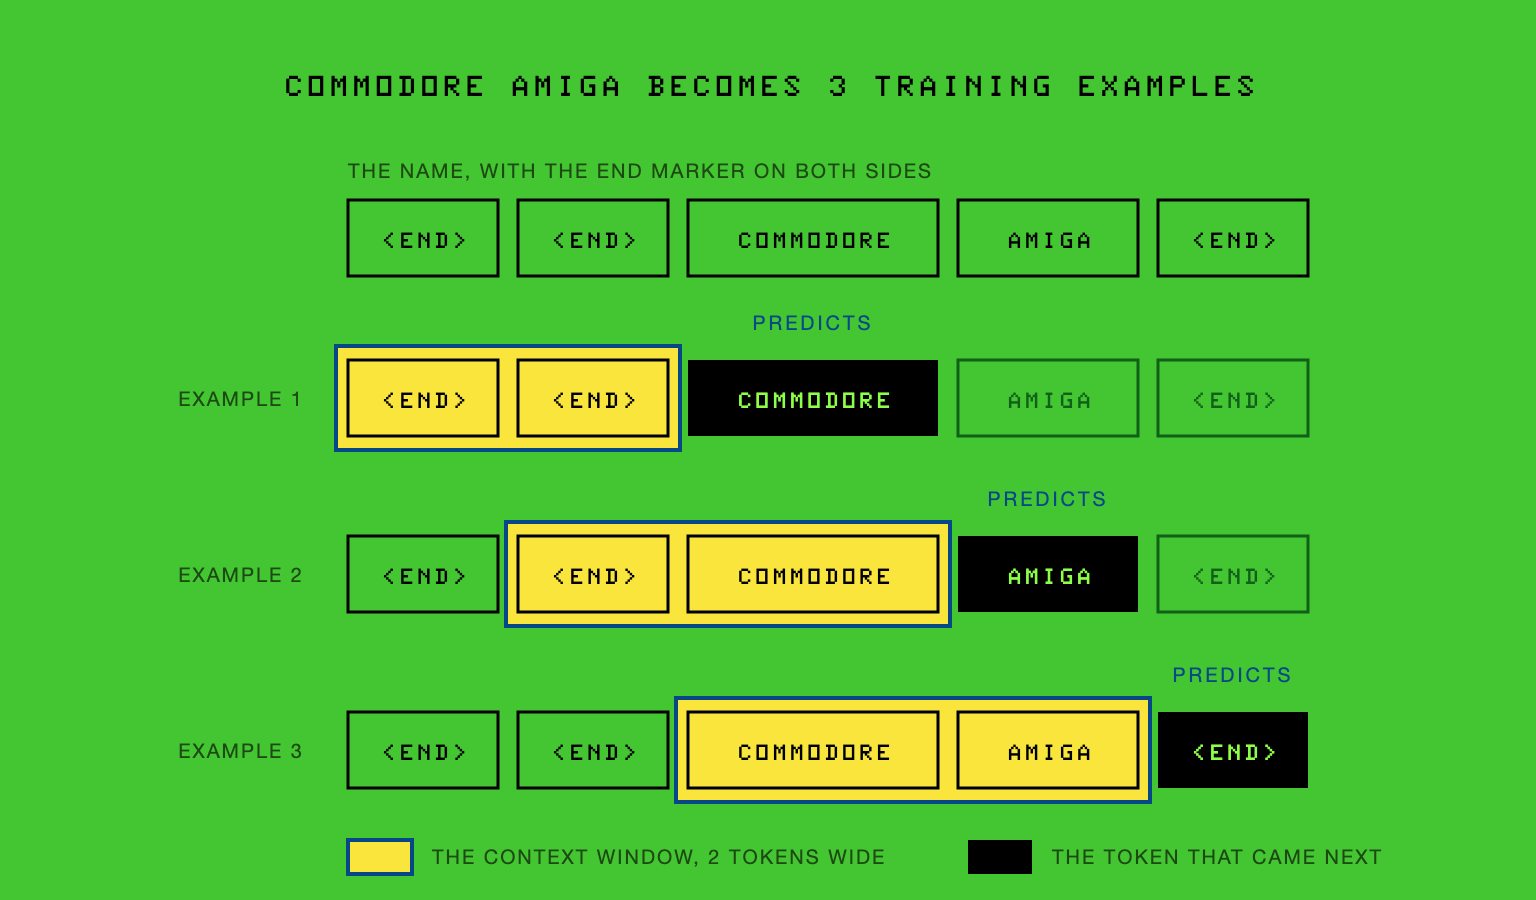
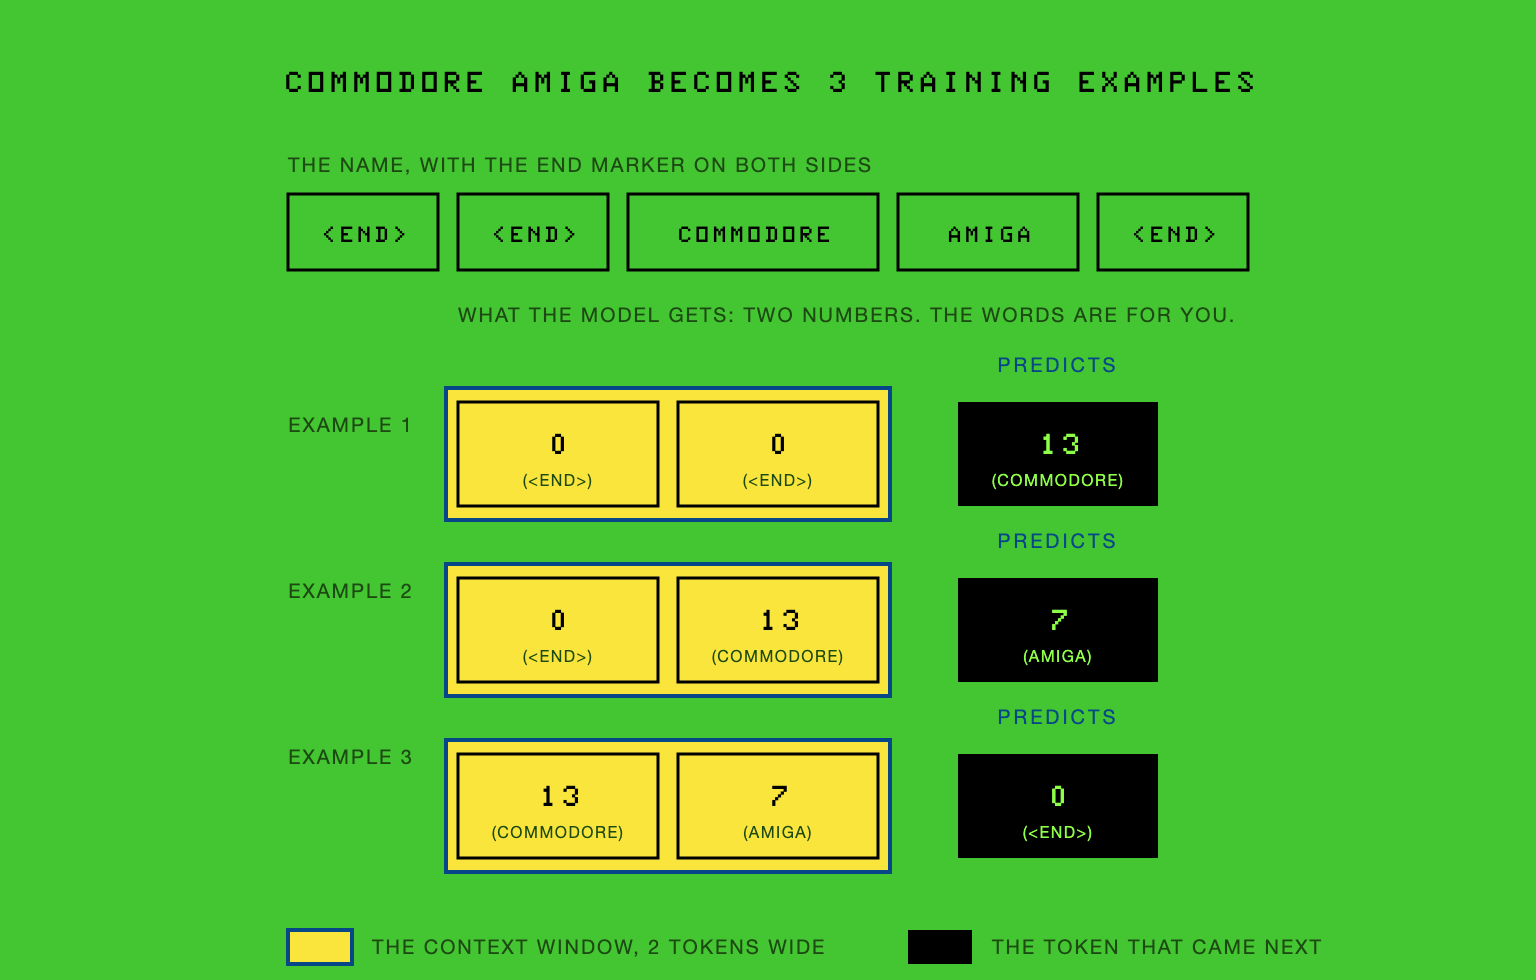
presentation: post 1's window figure shows the numbers the model gets, with the word beneath each
Each example row holds only the two tokens in the window and the one it
predicts, as token numbers with the word in small type under each, so the
reader does the lookup the machine does not.

Claude-Session-Id: 4357d8c4-2d07-4eca-b1c8-58cc22a0a7d2

diff --git a/presentation/posts/01-a-45-year-old-computer-learns-to-invent-computer-names.md b/presentation/posts/01-a-45-year-old-computer-learns-to-invent-computer-names.md
@@ -71,7 +71,7 @@ Take COMMODORE AMIGA. The window starts empty, which I write as two END markers,
 
 Three guesses from one two-word name. Do that for all eighteen and you have 58 examples, each one a pair of tokens and the token that actually followed. That's the entire training set.
 
-![A diagram on the CoCo's green screen, in its blocky pixel type, titled COMMODORE AMIGA BECOMES 3 TRAINING EXAMPLES. Across the top, the name as five boxes in a row: END, END, COMMODORE, AMIGA, END. Below it the same row three times, labelled example 1, 2 and 3. In each, an amber box with a navy edge marks a window two tokens wide, and the token just to its right is shown in inverse video, green on black, with PREDICTS written above it: the window over END END predicts COMMODORE, the window over END COMMODORE predicts AMIGA, and the window over COMMODORE AMIGA predicts END. Boxes past the window are drawn faintly. A legend reads: the context window, 2 tokens wide; the token that came next.](images/two-words-at-a-time.png)
+![A diagram on the CoCo's green screen, in its blocky pixel type, titled COMMODORE AMIGA BECOMES 3 TRAINING EXAMPLES. Across the top, the name as five boxes: END, END, COMMODORE, AMIGA, END. Below, a caption reads: what the model gets, two numbers; the words are for you. Then three rows labelled example 1, 2 and 3. Each row has an amber box with a navy edge holding two cells, and a black cell to the right with PREDICTS written above it. Every cell shows a token number in large type with its word in small type beneath: example 1 holds 0 (END) and 0 (END) and predicts 13 (COMMODORE); example 2 holds 0 (END) and 13 (COMMODORE) and predicts 7 (AMIGA); example 3 holds 13 (COMMODORE) and 7 (AMIGA) and predicts 0 (END). A legend reads: the context window, 2 tokens wide; the token that came next.](images/two-words-at-a-time.png)
 
 Everything before the window is gone. When people talk about a model with a 200,000-token context window, that is this, wider. And if you've ever had a long chat where the model seemed to forget how the conversation started, you've watched the window slide.
 

diff --git a/presentation/posts/README.md b/presentation/posts/README.md
@@ -19,7 +19,7 @@ takes the system font list and Hot CoCo falls back to Helvetica.
 S=$(mktemp -d)
 { printf '<!doctype html><meta charset="utf-8"><style>@font-face{font-family:"Hot CoCo";src:url("file://%s/presentation/fonts/HotCoCo.ttf")}html,body{margin:0}</style>' "$PWD"; cat presentation/posts/images/two-words-at-a-time.svg; } > "$S/fig.html"
 "/Applications/Google Chrome.app/Contents/MacOS/Google Chrome" --headless=new --disable-gpu --hide-scrollbars \
-  --window-size=1536,900 --force-device-scale-factor=1 --screenshot="$S/fig.png" "file://$S/fig.html"
+  --window-size=1536,980 --force-device-scale-factor=1 --screenshot="$S/fig.png" "file://$S/fig.html"
 cp "$S/fig.png" presentation/posts/images/two-words-at-a-time.png
 ```
 
